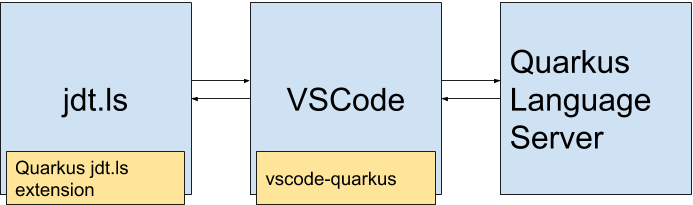
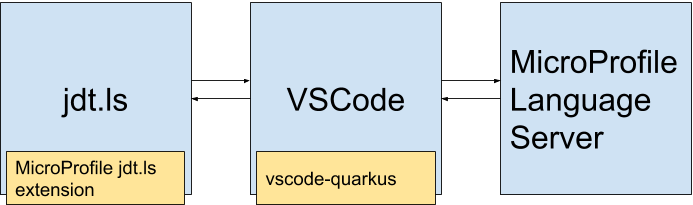
Update contributing guide

Changed region(s): [[0.7273, 0.2341, 1.0, 0.3805], [0.0, 0.761, 0.2424, 0.878]]

diff --git a/CONTRIBUTING.md b/CONTRIBUTING.md
@@ -5,70 +5,118 @@ If you have any questions or suggestions we are happy to hear them.
 
 ## Project Structure
 For vscode-quarkus to work, it relies on the
-[Quarkus language server](https://github.com/redhat-developer/quarkus-ls/tree/master/quarkus.ls)
+[MicroProfile language server](https://github.com/redhat-developer/quarkus-ls/tree/master/microprofile.ls)
 and the 
-[Quarkus jdt.ls extension](https://github.com/redhat-developer/quarkus-ls/tree/master/quarkus.jdt)
-. The Quarkus language server is responsible for providing
+[MicroProfile jdt.ls extension](https://github.com/redhat-developer/quarkus-ls/tree/master/microprofile.jdt)
+. The MicroProfile language server is responsible for providing
 [LSP language features](https://microsoft.github.io/language-server-protocol/specification)
-to VSCode, while the Quarkus jdt.ls extension is responsible for listening
+to VSCode, while the MicroProfile jdt.ls extension is responsible
+for functionalities like listening
 to Java classpath changes and generating config setting metadata for
 the `application.properties` file.
 The reason why 
 [vscode-java](https://github.com/redhat-developer/vscode-jav) 
 is required for vscode-quarkus to work, is because vscode-java
 starts the [jdt.ls](https://github.com/eclipse/eclipse.jdt.ls)
-language server, which is required to run the Quarkus jdt.ls extension.  
+language server, which is required to run the MicroProfile jdt.ls extension.  
 
 ![](images/componentDiagram.png)  
 The image above represents communication between the three components. 
-As the image implies, the Quarkus Language Server cannot directly 
-communicate with the Quarkus jdt.ls extension and vice-versa. They must 
+As the image implies, the MicroProfile language server cannot directly 
+communicate with the MicroProfile jdt.ls extension and vice-versa. They must 
 communicate via vscode-quarkus.  
 
 Here is an example of how the components work together for
-`application.properties` completion.  
+`application.properties` completion:
 
-Step 1. A Quarkus project is open is VSCode, and completion has been 
+**Step 1.** A Quarkus project is opened in VSCode, and completion has been 
 invoked inside the `application.properties` file, which sends a
-`textDocument/completion` request to the Quarkus language server.  
+`textDocument/completion` request to the MicroProfile language server.  
 
-Step 2. Quarkus language server checks its cache if completion options
+**Step 2.** MicroProfile language server checks its cache if completion options
 exist.  
-* If it exists the Quarkus language server sends them to VSCode 
+* If it exists the MicroProfile language server sends them to VSCode 
 as the response to the `textDocument/completion` request.
 Communication is complete, and does not proceed to Step 3 
 and onwards.
-* If it does not exist, the Quarkus language server sends a 
-custom request, `quarkus/projectInfo` to vscode-quarkus.  
+* If it does not exist, the MicroProfile language server sends a 
+custom request, `microprofile/projectInfo` to vscode-quarkus.  
 Proceed to Step 3.  
 
-Step 3. vscode-quarkus receives the `quarkus/projectInfo` request,
-and runs the `quarkus.java.projectInfo` command. This command was
-defined by the Quarkus jdt.ls extension.  
+**Step 3.** vscode-quarkus receives the `microprofile/projectInfo` request,
+and delegates it to the MicroProfile jdt.ls extension.  
 
-Step 4. The Quarkus jdt.ls extension receives the command, determines
-information about the currently opened Quarkus project and returns
-the information to vscode-quarkus.  
+**Step 4.** The MicroProfile jdt.ls extension receives the command, determines
+[project information](https://github.com/redhat-developer/quarkus-ls/blob/master/microprofile.jdt/com.redhat.microprofile.jdt.core/src/main/java/com/redhat/microprofile/commons/MicroProfileProjectInfo.java)
+(project URI, configuration properties, hints etc.)
+about the currently opened (MicroProfile or Quarkus) project and returns
+the information to vscode-quarkus. The project information is then sent to
+the MicroProfile language server
 
-The information is computed by scanning all classes annotated with `@ConfigRoot` Quarkus annotation from all project classpath JARs and generating the proper Quarkus properties.
+**Step 5.** vscode-quarkus receives the project information and sends it
+to the MicroProfile language server.  
 
-For instance if the project has a `pom.xml` with this dependency:
+**Step 6.** MicroProfile language server receives the information, adds it 
+to its cache, and returns the completion options stored in the 
+project information as the response to the `textDocument/completion`
+request.
 
-```xml
-<dependency>
-    <groupId>io.quarkus</groupId>
-    <artifactId>quarkus-core-deployment</artifactId>
-</dependency>
-```
+## Implementing language features for `application.properties`
+When an `application.properties` file sends a request (e.g. textDocument/completion) to the
+MicroProfile language server, the requests are accepted in
+[ApplicationPropertiesTextDocumentService#completion](https://github.com/redhat-developer/quarkus-ls/blob/9eb7718a6e0faa300f3937e607c3bfffc25c2f1d/microprofile.ls/com.redhat.microprofile.ls/src/main/java/com/redhat/microprofile/ls/ApplicationPropertiesTextDocumentService.java#L150).
+This class receives LSP requests for `application.properties` files.
 
-The scanner will collect the [io.quarkus.deployment.ApplicationConfig](https://github.com/quarkusio/quarkus/blob/master/core/deployment/src/main/java/io/quarkus/deployment/ApplicationConfig.java) class annotated with `@ConfigRoot` and will generate a Quarkus property for each field:
+Properties collected by the MicroProfile jdt.ls extension are cached to keep response times
+fast.
+Collecting properties will not be done unless absolutely necessary
+(ie, if cache doesn't exist, if project dependencies change).
 
- * `quarkus.application.name` for the `name` field.
- * `quarkus.application.version` for the `version` field.
- 
-In addition, the Quarkus jdt.ls extension is able to manage `Quarkus deployment JAR`. 
+When the completion is triggered,
+the MicroProfile LS checks the properties cache for the given `application.properties` file.
+If the cache does not exist, it calls the `microprofile/projectInfo` request to call the JDT LS Extension [projectInfo delegate command handler ](https://github.com/redhat-developer/quarkus-ls/blob/0ff91b4d0fe4670584a3ad23fe645c8141df7f3d/microprofile.jdt/com.redhat.microprofile.jdt.core/src/main/java/com/redhat/microprofile/jdt/internal/core/ls/MicroProfileDelegateCommandHandler.java#L99) which
+uses the
+[properties manager](https://github.com/redhat-developer/quarkus-ls/blob/master/microprofile.jdt/com.redhat.microprofile.jdt.core/src/main/java/com/redhat/microprofile/jdt/core/PropertiesManager.java)
+that collects MicroProfile and Quarkus properties for the given Java project.
 
-For instance if the project has a `pom.xml` with this dependency:
+This manager is extensible by the
+`com.redhat.microprofile.jdt.core.propertiesProviders`
+[extension point](https://github.com/redhat-developer/quarkus-ls/blob/0ff91b4d0fe4670584a3ad23fe645c8141df7f3d/microprofile.jdt/com.redhat.microprofile.jdt.quarkus/plugin.xml#L5):
+
+ * [com.redhat.microprofile.jdt.core](https://github.com/redhat-developer/quarkus-ls/blob/0ff91b4d0fe4670584a3ad23fe645c8141df7f3d/microprofile.jdt/com.redhat.microprofile.jdt.core/plugin.xml#L33) defines properties provider for MicroProfile.
+ * [com.redhat.microprofile.jdt.quarkus](https://github.com/redhat-developer/quarkus-ls/blob/0ff91b4d0fe4670584a3ad23fe645c8141df7f3d/microprofile.jdt/com.redhat.microprofile.jdt.quarkus/plugin.xml#L5) define properties provider for Quarkus.
+
+
+Here are some providers and the annotation(s) they scan for:
+
+| Class | Annotations |
+|-------|-------------|
+| [MicroProfileConfigPropertyProvider](https://github.com/redhat-developer/quarkus-ls/blob/master/microprofile.jdt/com.redhat.microprofile.jdt.core/src/main/java/com/redhat/microprofile/jdt/internal/core/providers/MicroProfileConfigPropertyProvider.java) | org.eclipse.microprofile.config.inject.ConfigProperty |
+| [MicroProfileRegisterRestClientProvider](https://github.com/redhat-developer/quarkus-ls/blob/master/microprofile.jdt/com.redhat.microprofile.jdt.core/src/main/java/com/redhat/microprofile/jdt/internal/core/providers/MicroProfileRegisterRestClientProvider.java) | org.eclipse.microprofile.rest.client.inject.RegisterRestClient |
+| [QuarkusConfigPropertiesProvider](https://github.com/redhat-developer/quarkus-ls/blob/master/microprofile.jdt/com.redhat.microprofile.jdt.quarkus/src/main/java/com/redhat/microprofile/jdt/internal/quarkus/providers/QuarkusConfigPropertiesProvider.java) | io.quarkus.arc.config.ConfigProperties |
+| [QuarkusConfigRootProvider](https://github.com/redhat-developer/quarkus-ls/blob/master/microprofile.jdt/com.redhat.microprofile.jdt.quarkus/src/main/java/com/redhat/microprofile/jdt/internal/quarkus/providers/QuarkusConfigRootProvider.java) | io.quarkus.runtime.annotations.ConfigRoot |
+| [QuarkusKubernetesProvider](https://github.com/redhat-developer/quarkus-ls/blob/master/microprofile.jdt/com.redhat.microprofile.jdt.quarkus/src/main/java/com/redhat/microprofile/jdt/internal/quarkus/providers/QuarkusKubernetesProvider.java) | io.dekorate.kubernetes.annotation.KubernetesApplication<br>io.dekorate.openshift.annotation.OpenshiftApplication<br>io.dekorate.s2i.annotation.S2iBuild<br>io.dekorate.docker.annotation.DockerBuild |
+
+
+## Searching for properties in JARs not in the user's Quarkus project's classpath
+Some Quarkus properties like `quarkus.hibernate-orm.dialect` are not defined in JARs belonging
+to the current Quarkus project's classpath. Some Quarkus classpath JARs have deployment JARs.
+Generally speaking, deployment JARs are not present in the project's classpath.
+
+If classpath JARs have a deployment JAR, it will be defined in the 
+`META-INF/quarkus-extension.properties` file of the classpath JAR.
+
+For example, the `quarkus-hibernate-orm-1.2.0.Final.jar` has a deployment JAR with
+an artifactId of `quarkus-hibernate-orm-deployment`:
+![](images/deployment.png)
+
+The MicroProfile jdt.ls extension creates a "fake" Java project with the deployment
+JARs in its classpath and performs a scan for properties for this fake project, in order
+to retreive the desired properties.
+
+To make things more concrete:
+
+Consider a Quarkus project with a `pom.xml` with this dependency:
 
 ```xml
 <dependency>
@@ -77,14 +125,23 @@ For instance if the project has a `pom.xml` with this dependency:
 </dependency>
 ```
 
-this JAR doesn't contain the classes annotated with `@ConfigRoot`. The JAR which contains those classes is `quarkus-hibernate-orm-deployment*.jar`. This information comes from 
-the `META-INF/quarkus-extension.properties` of the `quarkus-hibernate-orm*.jar` as a property:
+Properties like `quarkus.hibernate-orm.dialect` and `quarkus.hibernate-orm.sql-load-script` are
+not defined (no classes annotated with `@ConfigRoot`) in the `quarkus-hibernate-orm*.jar` JAR.
+
+Those properties are located in its deployment JAR: `quarkus-hibernate-orm-deployment*.jar`.
+
+The deployment jar is listed in `META-INF/quarkus-extension.properties` from the `quarkus-hibernate-orm*.jar` as a property:
 		 
 ```
-deployment-artifact=io.quarkus\:quarkus-hibernate-orm-deployment\:0.21.1
+deployment-artifact=io.quarkus\:quarkus-hibernate-orm-deployment\:1.2.0.Final
 ```
 
-Under the hood, the quarkus jdt.ls extension delegates the resolution (i.e. download) of those deployment jars to Maven, regardless of the user project's build system. So, a project depending on:
+Note that in most cases, a Quarkus project would not have deployment JARs listed as dependencies in the project's
+`pom.xml`, which is why the deployment JARs would not be in the project's classpath.
+
+Therefore in order to scan for the properties in the deployment JAR, under the hood, the MicroProfile jdt.ls extension delegates the resolution (i.e. download) of those deployment jars to Maven, regardless of the user project's build system.
+
+In conclusion, a project depending on:
 
 ```xml
 <dependency>
@@ -93,12 +150,12 @@ Under the hood, the quarkus jdt.ls extension delegates the resolution (i.e. down
 </dependency>
 ```
 
-will generate some hibernate properties like:
+will generate the hibernate properties coming from the deployment JAR, like:
 
  * `quarkus.hibernate-orm.dialect`
  * `quarkus.hibernate-orm.sql-load-script`
- 
-despite the fact that the following dependency was not declared in the `pom.xml`:
+
+even if the deployment JAR itself, was not declared in the Quarkus project's `pom.xml` like so:
 
 ```xml
 <dependency>
@@ -106,15 +163,18 @@ despite the fact that the following dependency was not declared in the `pom.xml`
     <artifactId>quarkus-hibernate-orm-deployment</artifactId>
 </dependency>
 ```
- 
-Step 5. vscode-quarkus receives the project information and sends it
-to the Quarkus language server.  
 
-Step 6. Quarkus language server receives the information, adds it 
-to its cache, and returns the completion options stored in the 
-project information as the response to the `textDocument/completion`
-request. 
+## Implementing language features for Java files
+When a Java file sends a request (e.g. textDocument/codeLens) to the
+MicroProfile language server, the requests are accepted in
+[ApplicationPropertiesTextDocumentService#completion](https://github.com/redhat-developer/quarkus-ls/blob/9eb7718a6e0faa300f3937e607c3bfffc25c2f1d/microprofile.ls/com.redhat.microprofile.ls/src/main/java/com/redhat/microprofile/ls/JavaTextDocumentService.java#L70).
+This class receives LSP requests for Java files.
 
+Currently there is only support for textDocument/hover and textDocument/codeLens.
+Unlike application.properties features, there is no Eclipse extension point at the moment, to extend the hover or codelens feature.
+
+The MicroProfile language server currently provides language features for `*.properties` and `*.java` files. Please see
+[quarkus-ls#215](https://github.com/redhat-developer/quarkus-ls/issues/215).
 
 ## Development Setup
 
@@ -125,12 +185,12 @@ request.
   * [JDK 8+](http://www.oracle.com/technetwork/java/javase/downloads/index.html)
 
 ### Setup
-Step 1. Fork and clone this repository  
+**Step 1.** Fork and clone this repository  
 
-Step 2. Fork and clone the Quarkus jdt.ls extension and Quarkus language server, both located
-in this [repository](https://github.com/redhat-developer/quarkus-ls).  
+**Step 2.** Fork and clone this [repository](https://github.com/redhat-developer/quarkus-ls), which
+contains the MicroProfile jdt.ls extension and MicroProfile language server
 
-**Note:** Ensure that the cloned repositories are siblings:
+**Note:** Ensure that the cloned repositories are under the same parent directory:
 
 ```
 YOUR_FOLDER/
@@ -138,23 +198,23 @@ YOUR_FOLDER/
          │      
          ├──── quarkus-ls/
 ```  
-Step 3. Navigate into `vscode-quarkus/`
+**Step 3.** Navigate into `vscode-quarkus/`
 ```bash
 $ cd vscode-quarkus/
 ```  
-Step 4. Install npm dependencies
+**Step 4.** Install npm dependencies
 ```bash
 $ npm install
 ```  
 
-Step 5. Build the Quarkus language server and Quarkus jdt.ls extension
+**Step 5.** Build the MicroProfile language server and MicroProfile jdt.ls extension
 ```bash
 $ npm run build
 ```
 This script does two things.
-1. Builds the Quarkus language server and places the jar in 
+1. Builds the MicroProfile language server and places the jar in 
 `vscode-quarkus/server/`.
-2. Builds the Quarkus jdt.ls extension and places the jar in 
+2. Builds the MicroProfile jdt.ls extension and places the jar in 
 `vscode-quarkus/jars/`.  
 
 In addition to `npm run build`, there are two more build scripts:  
@@ -162,42 +222,47 @@ In addition to `npm run build`, there are two more build scripts:
 `npm run build-ext` only builds the Quarkus jdt.ls extension and places the jar in `vscode-quarkus/jars/`.
 
 ### Running vscode-quarkus
-Step 1. Open `vscode-quarkus/` in VSCode.  
+**Step 1.** Open `vscode-quarkus/` in VSCode.  
 
-Step 2. Open the Debugging tab, select and run 
+**Step 2.** Open the Debugging tab, select and run 
 "Launch Extension (vscode-quarkus)" at the top left.
 ![](images/runExtension.png)
 
 ## Debugging  
-### Debugging the Quarkus language server:
+### Debugging the MicroProfile language server:
 In an IDE of your choice, set the debugger configuration to connect
-to localhost, port 1064.  
+to localhost, port 1064.
 
-If using VSCode, open `quarkus-ls/quarkus.ls/` in VSCode. The proper
+If using VSCode, open `quarkus-ls/microprofile.ls/` in VSCode. The proper
 debugger configurations are already defined in `.vscode/`.
-There should be a "Debug (Attach) - Remote (quarkus.ls)" option
+There should be a "Debug (Attach) - Remote (microprofile.ls)" option
 at the top left of the Debugging tab.
 ![](images/runDebugger.png)  
 
-The JVM arguments used to start the Quarkus language
+The JVM arguments used to start the MicroProfile language
 server are specified
 [here](https://github.com/redhat-developer/vscode-xml/blob/35c122edcce09038e853dfab112dd76813302034/src/javaServerStarter.ts#L26).
 
-### Debugging the Quarkus jdt.ls extension:
-Only Eclipse can be used to debug the Quarkus jdt.ls extension.  
+### Debugging the MicroProfile jdt.ls extension:
+Only Eclipse can be used to debug the MicroProfile jdt.ls extension.  
 
-Step 1. Open the jdt.ls source code in a new workspace in Eclipse by
+**Step 1.** Open the jdt.ls source code in a new workspace in Eclipse by
 following the setup
 steps in the jdt.ls GitHub repository 
 [here](https://github.com/eclipse/eclipse.jdt.ls#first-time-setup).  
 
-Step 2. In the same workspace, import the projects in
-`quarkus-ls/quarkus.jdt`.
+**Step 2.** In the same workspace, import the projects from
+`quarkus-ls/microprofile.jdt/`.
 
-Step 3. In the Debug dropdown menu, open "Debug Configurations...".  
+**Step 3.** In the Debug dropdown menu, open "Debug Configurations...".  
 ![](images/debugConfigMenu.png)  
 
-Step 4. Create a new "Remote Java Application" launch configuration.
-Set the following settings and click "Apply".  
+**Step 4.** Create a new "Remote Java Application" launch configuration.  
+Set the following settings and click "Apply":  
+```
+Project: com.redhat.microprofile.jdt.core
+Connection Type: Standard (Socket Attach)
+Host: localhost
+Port: 1044
+```
 ![](images/debugConfig.png)
-
